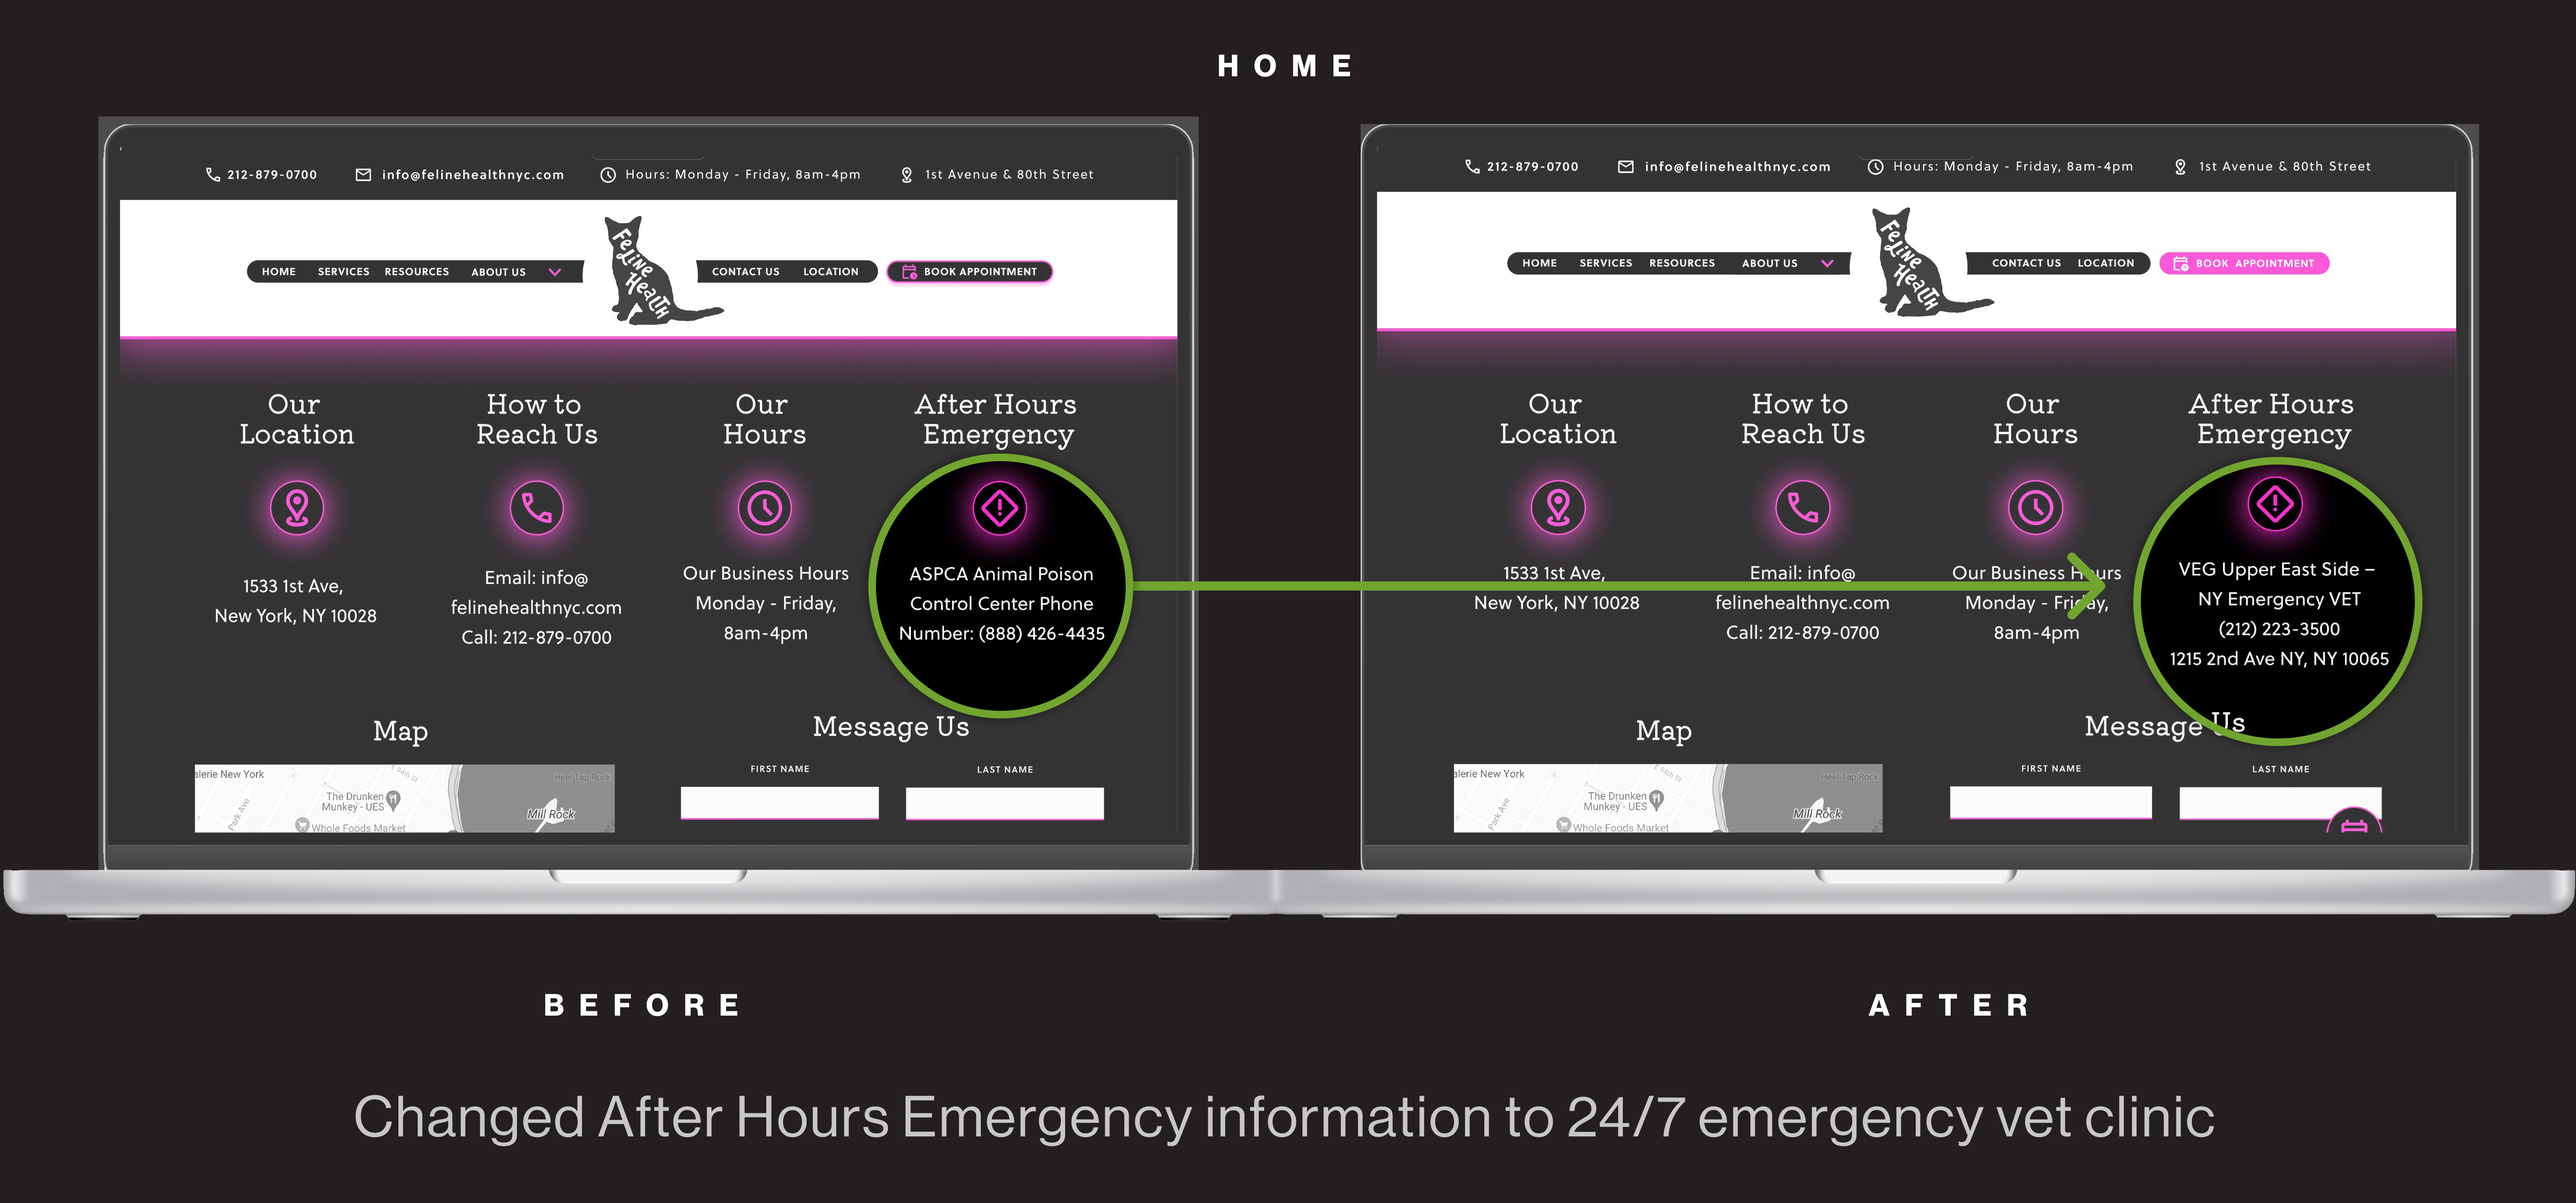
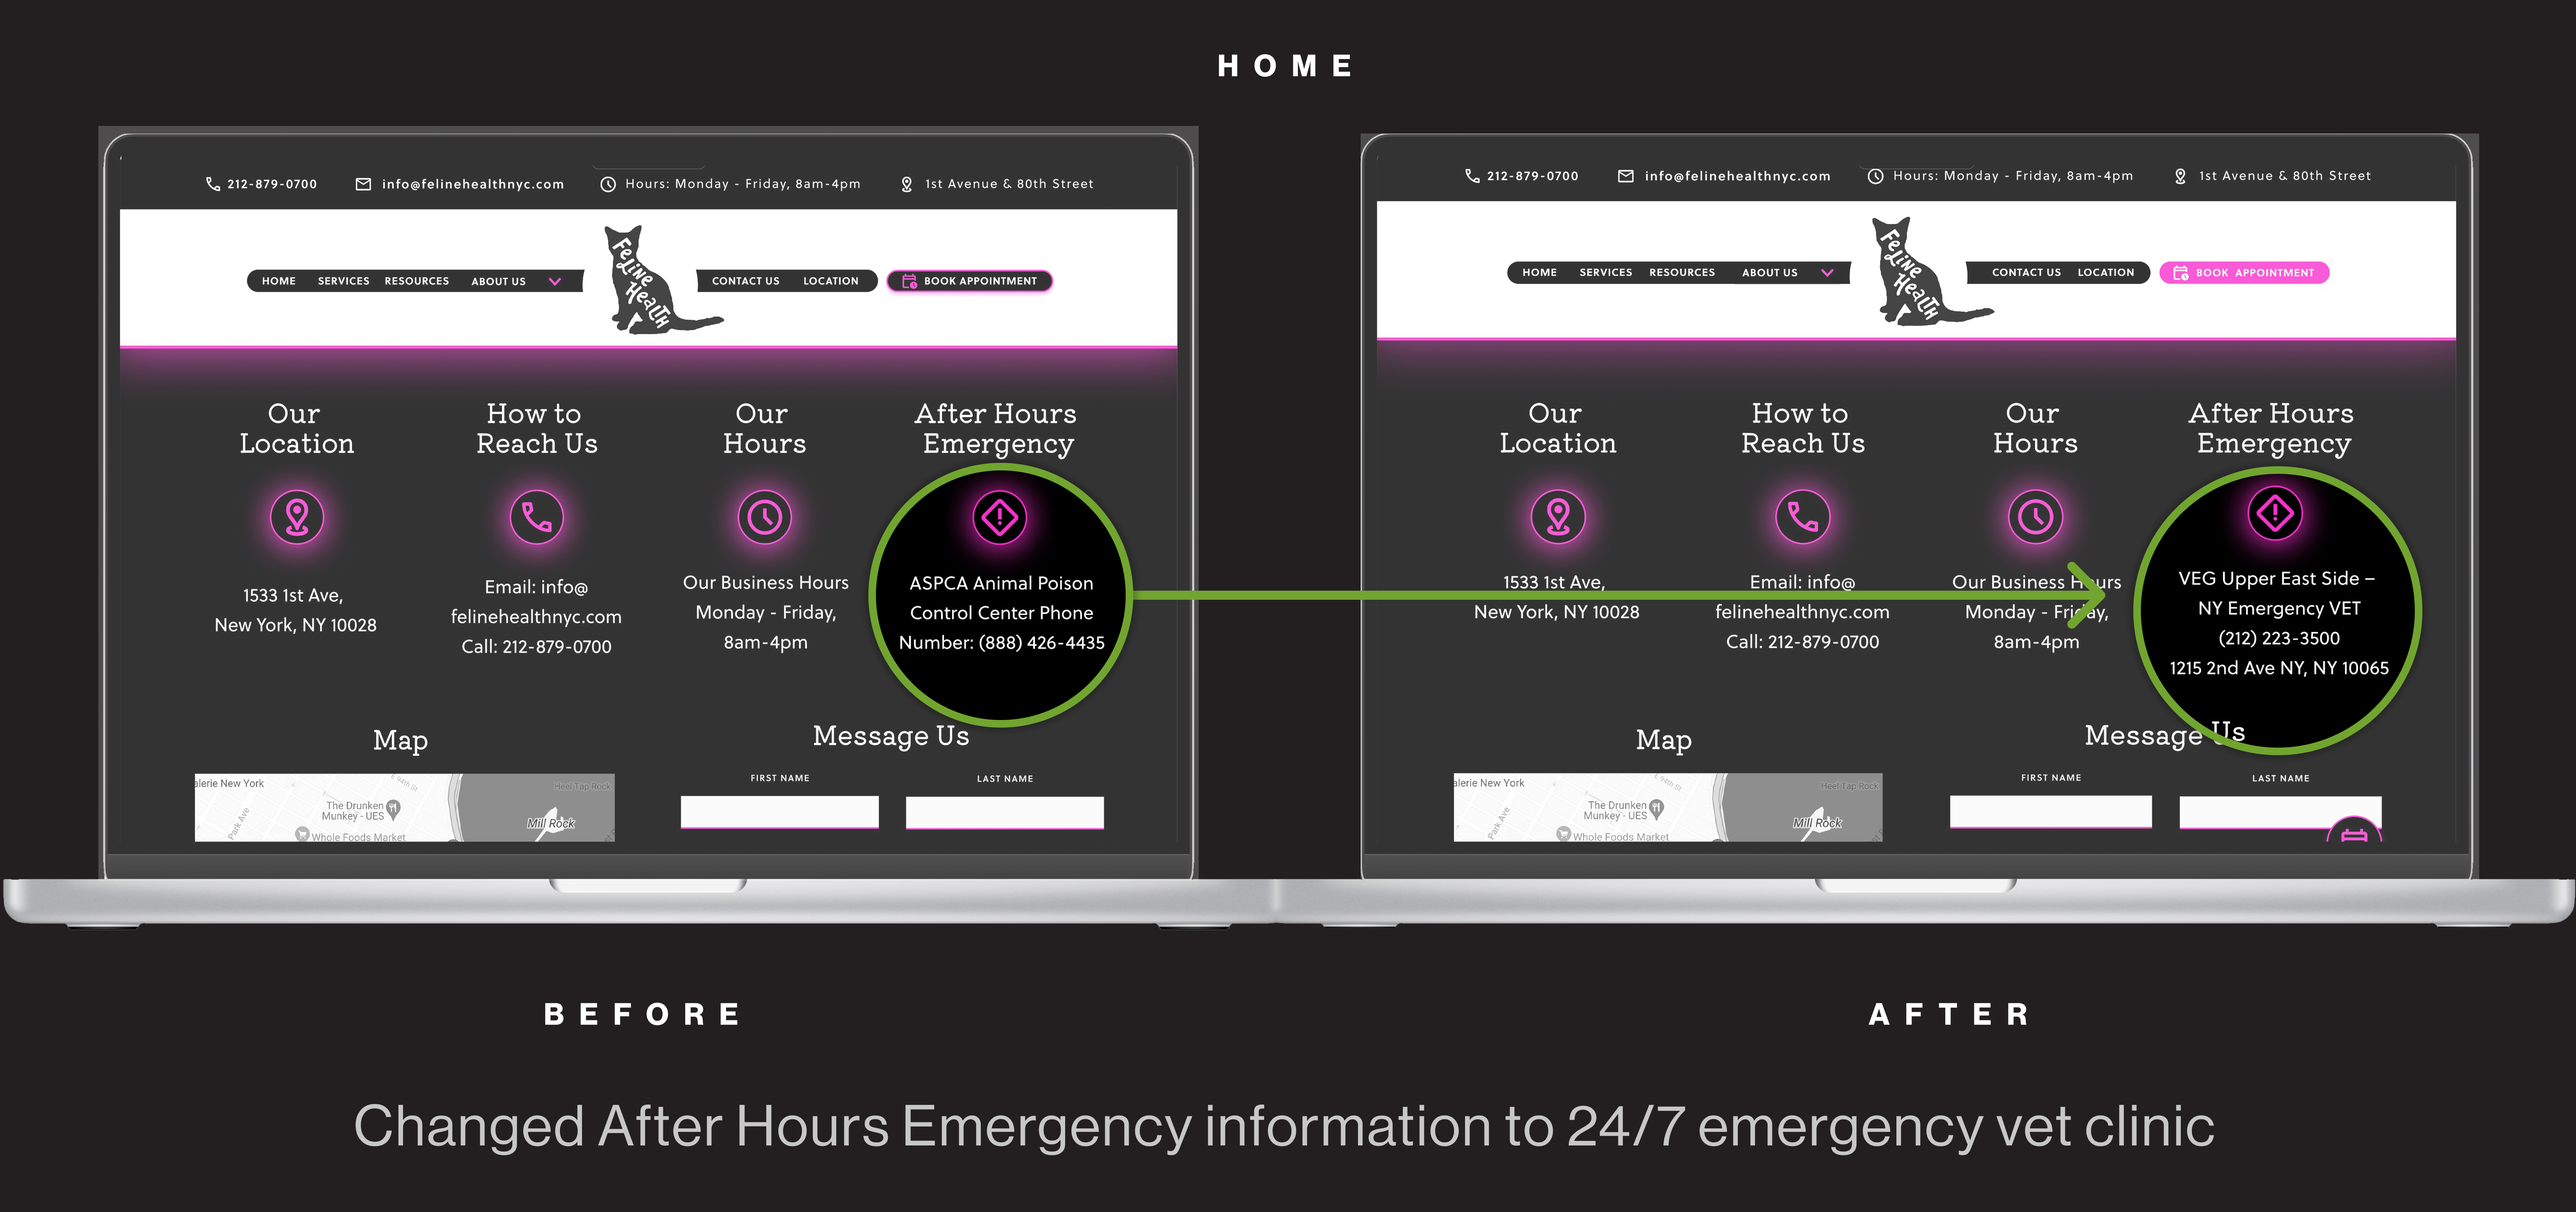
reworded sections

diff --git a/src/components/Fh/ReflectionFh.js b/src/components/Fh/ReflectionFh.js
@@ -5,86 +5,19 @@ export const ReflectionFh = () => {
   return (
     <>
       <div className='BlackHeds'>
-        <h2 className='cases_openerText'>Reflection</h2>
+        <h2 className='cases_openerText'>Takeaways</h2>
       </div>
       <section className='ReflectionContainer'>
-        <div className='OpenerInfo'>
-          <div className='Info'>
-            <div className='InfoSection'>
-              <div className='Button_website opener margin'>problem</div>
-              <h5 className='h5 opener_text center'>
-                The clinic&apos;s website felt outdated and clunky, with missing
-                key information. It failed to capture Feline Health&apos;s
-                vibrant atmosphere—neon signs, playful wallpaper, and a
-                welcoming energy—or reflect the special bond Dr. Blair,
-                who&apos;s my vet and whom I adore, builds with her feline
-                patients and their owners.
-              </h5>
-            </div>
-            <div className='InfoSection'>
-              <div className='Button_website opener margin'>solution</div>
-              <h5 className='h5 opener_text center'>
-                The goal is for the website to capture Feline Health&apos;s
-                lively personality while making the experience intuitive for cat
-                owners. Simplified navigation, online booking, and playful
-                design details translate its neon-and-wallpaper aesthetic into a
-                trusted digital extension of Dr. Blair&apos;s practice.
-              </h5>
-            </div>
-            <div className='InfoSmall'>
-              <div className='InfoSmallSection'>
-                <h6 className='h6 small opener'>project</h6>
-                <h5 className='h5 small opener'>
-                  Responsive Site
-                  <br />
-                  Redesign
-                </h5>
-              </div>
-              <div>
-                <h6 className='h6 small opener'>role</h6>
-                <h5 className='h5 small opener'>
-                  UX Researcher <br />
-                  UI Designer
-                </h5>
-              </div>
-              <div>
-                <h6 className='h6 small opener'>duration</h6>
-                <h5 className='h5 small opener'>8 Weeks</h5>
-              </div>
-              <div>
-                <h6 className='h6 small opener'>tools</h6>
-                <h5 className='h5 small opener'>
-                  Figma <br />
-                  Photoshop
-                </h5>
-              </div>
-            </div>
-          </div>
-        </div>
         <div className='InnerContainer reflection'>
-          <h5 className='leadin'>
-            What challenges did I face, and what do I think led to them?
-          </h5>
-          <h5 className='h5'>
-            I ended up creating unnecessary mid-fidelity pages that didn&apos;t
-            align with the task flow and initially prioritized the desktop
-            version for high-fidelity wireframes, which led to a rushed mobile
-            design.
-          </h5>
-          <br />
-          <h5 className='leadin'>How could I have improved my approach?</h5>
-          <h5 className='h5'>
-            I could have managed my time more effectively by adhering to the
-            project scope and starting with the mobile version for a more
-            cohesive user experience.
-          </h5>
-          <br />
-          <h5 className='leadin'>What insights did I gain? </h5>
-          <h5 className='h5'>
-            This project highlighted the importance of defining goals and the
-            steps necessary to clarify the UX experience. I also enhanced my
-            user interviewing skills and learned to better evaluate project
-            scope through consultations with my mentor and peers.
+          <h5 className='h5 dropCap'>
+            This project was especially meaningful because Dr. Blair is my own
+            vet, and I wanted the site to capture the personality and care she
+            brings to her work. The challenge was balancing scope with
+            detail—deciding which flows mattered most and where to focus my
+            time. Looking back, starting with mobile-first design would have
+            created a smoother foundation across platforms. The key lesson:
+            thoughtful prioritization is just as critical as design craft when
+            creating experiences that feel both personal and dependable.
           </h5>
         </div>
       </section>

diff --git a/src/components/Fh/DesignFh.js b/src/components/Fh/DesignFh.js
@@ -12,14 +12,14 @@ export const DesignFh = () => {
       </div>
       <section className='DesignContainer fh'>
         <h5 className='h5 black dropCap design'>
-          I refined typography, colors, and logo lockups to modernize the look
-          while keeping the brand&apos;s Art Deco character intact. I also
-          created a new logo that worked seamlessly with existing brand assets,
-          making the identity feel updated without losing recognition. A muted,
-          nature-inspired palette reinforced sustainability, while consistent
-          use of type and iconography built trust through clarity and cohesion.
-          Together, these system elements ensured the redesigned site felt both
-          authentic to the brand and seamless for the user.
+          I refined typography, colors, and UI elements to modernize the site
+          while staying true to Feline Health&apos;s playful spirit. A refreshed
+          logo created cohesion, while neon pink accents echoed the
+          clinic&apos;s interiors and added energy. Consistent use of type,
+          buttons, and iconography built clarity and trust, with subtle touches
+          highlighted boxes and cards adding personality without clutter. The
+          result is a site that feels as welcoming online as the one-doctor
+          practice does in person.
         </h5>
         <div className='ButtonContainer'>
           <div className='Button enlarge white no_margin'>branding</div>
@@ -29,15 +29,15 @@ export const DesignFh = () => {
             alt={fh_styletile}
           />
         </div>
-        <div className='ButtonContainer'></div>
-        <h5 className='h5 dropCap black too'>
-          After testing both the mobile and desktop low-fidelity wireframes and
-          incorporating user feedback, I developed high-fidelity wireframes for
-          further testing on both platforms. The goal was to refine the design
-          and enhance the user experience, particularly by addressing usability
-          concerns on mobile and improving visual consistency on desktop.The
-          following updates were made to improve the booking flow across both
-          platforms:
+        <h5 className='h5 black design'>
+          <span className='leadin black'>High fidelity wireframes </span>
+          translated the validated flow into a fully realized experience that
+          balanced the clinic&apos;s personality with user needs. I streamlined
+          navigation so hours and contact details were always accessible, and
+          redesigned the appointment button to stand out more on mobile. Layout
+          and hierarchy were adjusted to guide users with less effort, while
+          consistent typography and neon-inspired accents carried the
+          clinic&apos;s playful atmosphere online
         </h5>
         <div className='ButtonContainer'>
           <div className='Button enlarge white fh'>high fidelity desktop</div>

diff --git a/src/components/Fh/TestingFh.js b/src/components/Fh/TestingFh.js
@@ -1,11 +1,11 @@
 import '../ReusableComponents.css'
 import '../ReusableTesting.css'
-import desktop_home from '../../assets/fh/fh_home_desktop.png'
-import desktop_home1 from '../../assets/fh/fh_home_desktop1.png'
-import desktop_appt from '../../assets/fh/fh_appt_desktop.png'
+import desktop_home from '../../assets/fh/fh_desktop_home.png'
+import desktop_home1 from '../../assets/fh/fh_home_desktop2.png'
+import desktop_appt from '../../assets/fh/fh_appt_desktop1.png'
 import mobile_home from '../../assets/fh/fh_home_mobile5.png'
 import mobile_home2 from '../../assets/fh/fh_mobile_home2.png'
-import mobile_home1 from '../../assets/fh/fh_home_mobile4.png'
+import mobile_home1 from '../../assets/fh/fh_mobile_home1.png'
 import mobile_appt from '../../assets/fh/fh_appt_mobile.png'
 
 export const TestingFh = () => {
@@ -17,38 +17,15 @@ export const TestingFh = () => {
       <section className='TestingContainer fh'>
         <div className='InnerContainer'>
           <h5 className='h5 dropCap'>
-            Testing was an essential part of refining the website. I conducted
-            moderated testing with five participants, achieving a 100%
-            completion rate and 0% error rate. Users found the website
-            intuitive, with easy navigation and visually appealing branding. I
-            made several key adjustments based on user feedback:{' '}
+            I conducted usability testing with five participants to evaluate the
+            redesigned booking flow. All participants completed the process
+            without errors, and satisfaction rose to 92% after improvements to
+            navigation and mobile usability. Participants found clinic details
+            easier to access and the appointment button clearer on mobile.
+            Feedback also pointed to the need for an emergency number in the
+            footer, which guided the final refinements to improve access to
+            critical information.
           </h5>
-          <ul className='h5 bullets'>
-            <li className='first_li_research'>
-              <h5>
-                Added an emergency contact number in the footer for after-hours
-                inquiries.
-              </h5>
-            </li>
-            <li>
-              <h5>
-                Provided text information above the appointment calendar icon
-                for clarity.
-              </h5>
-            </li>
-            <li>
-              <h5>
-                Included a “back to top” button in mobile to improve long-scroll
-                navigation .{' '}
-              </h5>
-            </li>
-            <li>
-              <h5>
-                Changed Book Appointment background to pink for instant
-                recognition on desktop.{' '}
-              </h5>
-            </li>
-          </ul>
           <div className='ButtonContainer'>
             <div className='Button enlarge'>iterations desktop</div>
           </div>

diff --git a/src/components/Ssc/Design.js b/src/components/Ssc/Design.js
@@ -28,35 +28,6 @@ export const Design = () => {
             alt={ive_style_resize}
           />
         </div>
-        {/* <div className='divider_curved top'></div>
-        <div className='divider_curved_down'></div> */}
-        {/* <h5 className='h5 dropCap black too'>
-          In moderated testing of the low-fidelity wireframes, 5 participants
-          completed their tasks of exploring the homepage, purchasing the vegan
-          soap and accessing information about the company&apos;s sustainability
-          practices and product usage. All five users succeeded without errors
-          and found the navigation intuitive, though they suggested increasing
-          the hamburger menu size and improving access to product reviews.{' '}
-          <br /> <br /> Next steps for the high-fidelity wireframes:{' '}
-        </h5>
-        <ul className='h5 bullets'>
-          <li className='first_li_research black'>
-            <h5 className='h5 black'>
-              Expanding the navigation bar and detailing sustainability
-              practices via new pages of an ingredients glossary and reviews to
-              enhance transparency and user satisfaction.
-            </h5>
-          </li>
-          <li className='black'>
-            <h5 className='h5 black'>
-              {' '}
-              Art deco branding theme was already established. The new logo and
-              branding echo and coexist with old in order for it to be updated
-              seamlessly and cohesively, while making the brand more distinct
-              and emphasizing sustainability again in the tagline.
-            </h5>
-          </li>
-        </ul> */}
         <h5 className='h5 black design'>
           <span className='leadin black'>In Figma, I translated </span>the
           design system into high fidelity wireframes that unified the brand

diff --git a/src/components/Nyt/ReflectionNyt.js b/src/components/Nyt/ReflectionNyt.js
@@ -10,13 +10,15 @@ export const ReflectionNyt = () => {
       <section className='ReflectionContainer'>
         <div className='InnerContainer reflection'>
           <h5 className='h5 dropCap'>
-            One challenge I faced was balancing user requests for grocery list
-            enhancements that were outside the project&apos;s scope. In
-            hindsight, I could have communicated those boundaries more clearly
-            during testing to keep the focus on serving size adjustments. What I
-            learned is that even a simple feature can make a big difference—when
-            it&apos;s thoughtful and streamlined, it builds real satisfaction
-            without adding complexity.
+            This project gave me the chance to rethink a feature in an app I use
+            every day. The biggest challenge was balancing serving-size
+            adjustments with connected tools like grocery lists and nutrition,
+            while also fielding user requests that were outside the project’s
+            scope. In hindsight, I could have communicated those boundaries more
+            clearly during testing to keep the focus on serving-size
+            adjustments. What I learned is that even a simple feature can make a
+            big difference—when it’s thoughtful and streamlined, it builds real
+            satisfaction without adding complexity.
           </h5>
         </div>
       </section>

diff --git a/src/components/Fh/IdeateFh.js b/src/components/Fh/IdeateFh.js
@@ -38,8 +38,9 @@ export const IdeateFh = () => {
               booking flow — selecting a date, choosing a time, and confirming
               the visit. 100% of users completed the tasks successfully and
               rated the process easy to follow. Overall satisfaction was 84%,
-              slightly lowered by feedback that contact details weren&apos;t
-              visible when users wanted to double-check information.
+              lowered by feedback that contact details weren&apos;t always
+              visible when participants wanted to review information during the
+              flow.
             </h5>
             <div className='Button enlarge ideate nyt '>
               low fidelity desktop

diff --git a/src/components/Ssc/Reflection.js b/src/components/Ssc/Reflection.js
@@ -18,13 +18,6 @@ export const Reflection = () => {
             sustainability means different things to different people, and good
             design needs to reflect that.
           </h5>
-          <br />
-
-          <div className='Button_website opener margin'>next steps</div>
-          <h5 className='h5'>
-            Future plans include guest checkout, third-party sustainability
-            certifications, and richer product filtering for faster discovery.
-          </h5>
         </div>
       </section>
     </>
